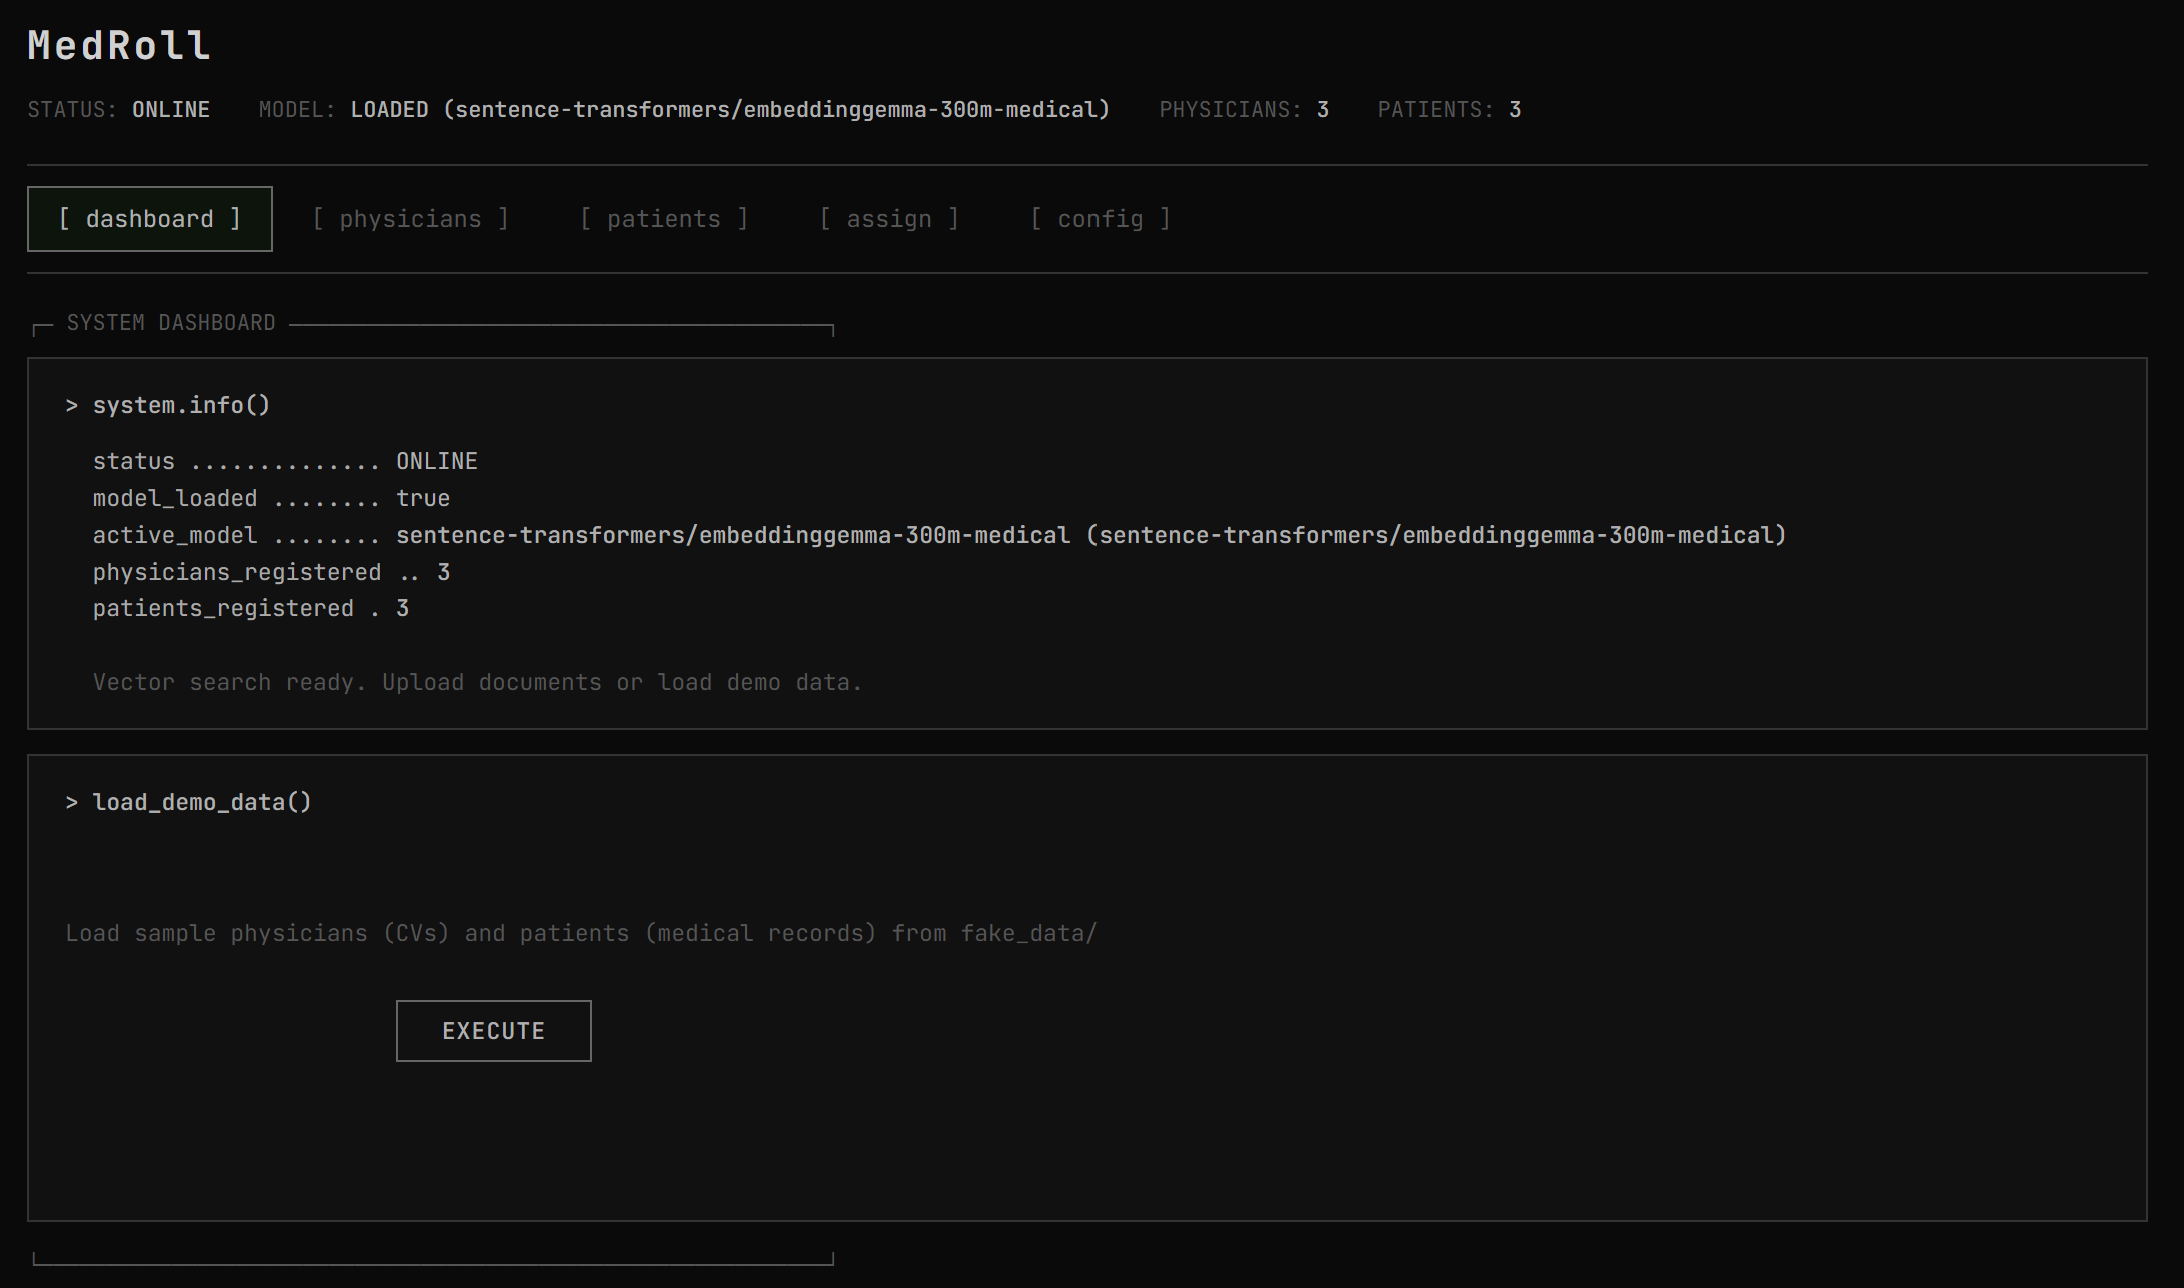
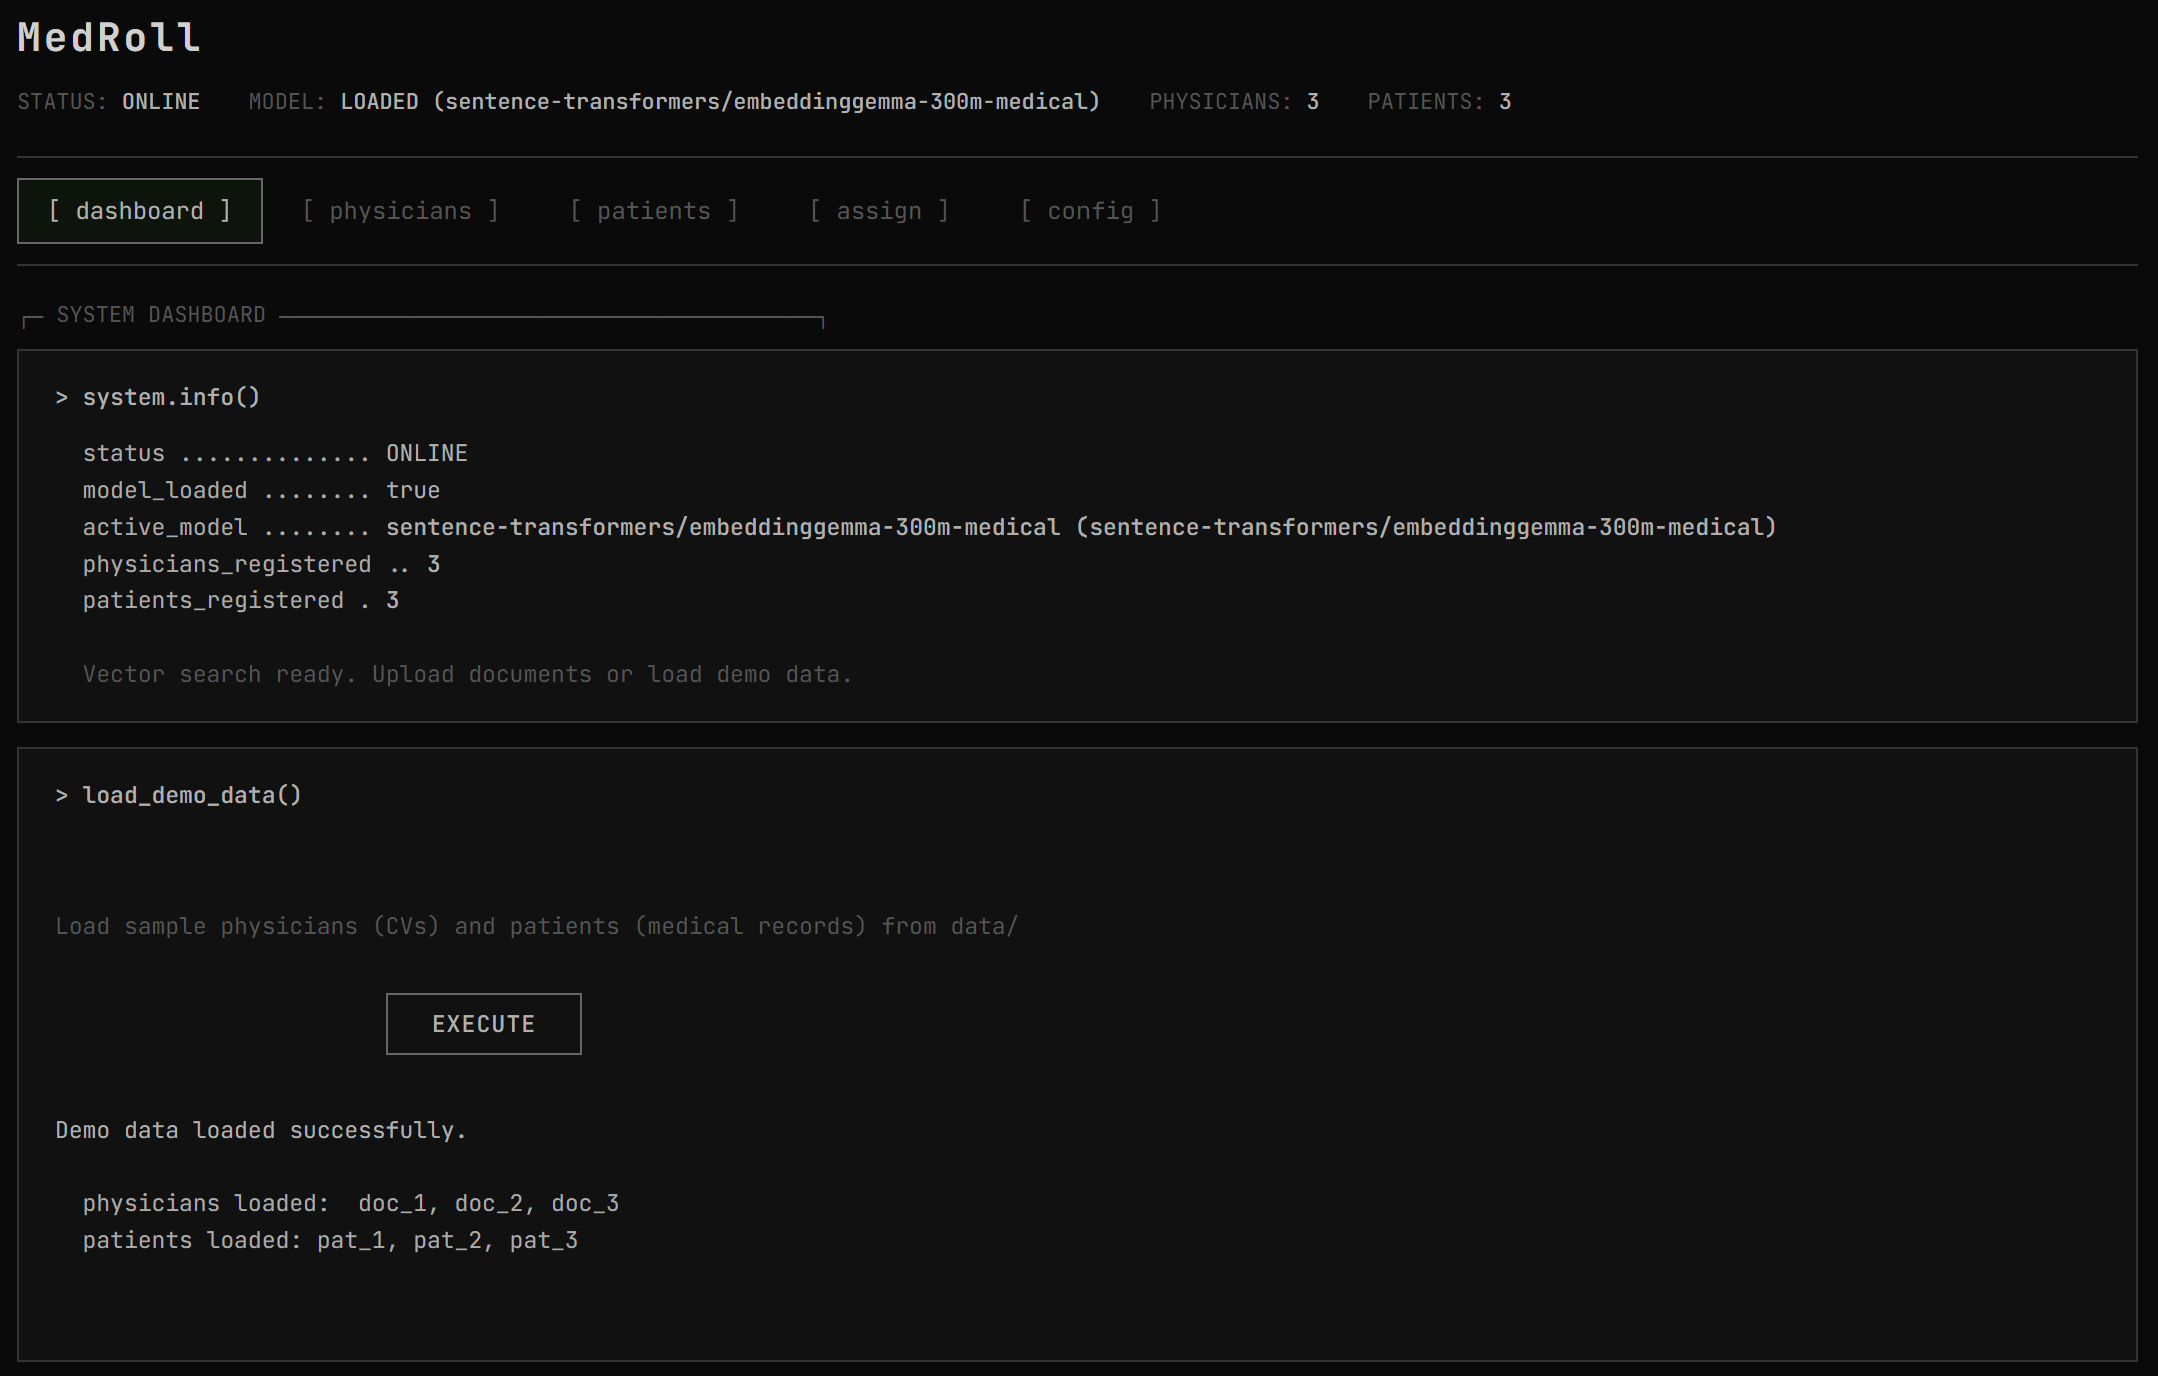
docs: update README.md and demo screenshots

diff --git a/README.md b/README.md
@@ -52,7 +52,7 @@ http://127.0.0.1:8000
 ```
 
 ## About
-MedRoll solves the patient-to-physician assignment problem. It reads physician CVs and patient medical charts, computes vector embeddings, and uses semantic matching to find good fits. A linear assignment solver then finds the best global matching — respecting physician capacity limits and penalizing uneven workloads to avoid burnout.
+MedRoll solves the patient-to-physician assignment problem. It reads physician CVs and patient medical charts, computes vector embeddings, and uses semantic similarity. An assignment solver then finds the best global matching — respecting physician capacity limits and penalizing uneven workloads to avoid burnout.
 
 ## Privacy & Data Preparation
 To ensure the security of sensitive data, we recommend using our anonymization tools. 
@@ -64,11 +64,11 @@ To ensure the security of sensitive data, we recommend using our anonymization t
 READ: [anonymization_docs](converter_service/docs/anonymization_docs.md)
 
 **Key Features:**
-- Reads CVs and medical records from `.pdf` and `.docx` files (via PyMuPDF and python-docx)
-- Embeds and indexes documents in LanceDB, using cosine similarity for matching
-- Uses the Hungarian algorithm (`linear_sum_assignment` from SciPy) to solve assignments globally
-- Configuration (penalty weights, model choice, etc.) can be changed on the fly
-- Terminal-style web UI for managing registries and running assignments
+- Reads CVs and medical records from `.pdf`, `.docx` files (via PyMuPDF and python-docx) and `.json` files directly.
+- Embeds and indexes documents in LanceDB, using cosine similarity for matching.
+- Uses the Hungarian algorithm(`linear_sum_assignment` from SciPy) to solve assignments globally.
+- Configuration (penalty weights, model choice, etc.) can be changed on the fly.
+- Terminal-style web UI for managing registries and running assignments.
 
 ## Features
 ### Configuration
@@ -93,11 +93,11 @@ Most of the assignment parameters can be tuned directly from the interface:
 ### Physicians and Patients Registry
 You can add physicians and patients by uploading their documents:
 
-- **Physicians**: Provide a unique `physician_id`, full name, capacity (maximum patients), and a resume (PDF/DOCX). The text is extracted and stored in the vector database.
+- **Physicians**: Provide a unique `physician_id`, full name, capacity (maximum patients) and a resume (PDF/DOCX/JSON). The text is extracted or parsed directly and stored in the vector database.
 
   ![physicians](demo/physicians.png)
 
-- **Patients**: Provide a unique `patient_id` and their medical chart/record. Their data is cached for assignment retrieval.
+- **Patients**: Provide a unique `patient_id` and their medical chart/record (PDF/DOCX/JSON). Their data is cached for assignment retrieval.
 
   ![patients](demo/patients.png)
 